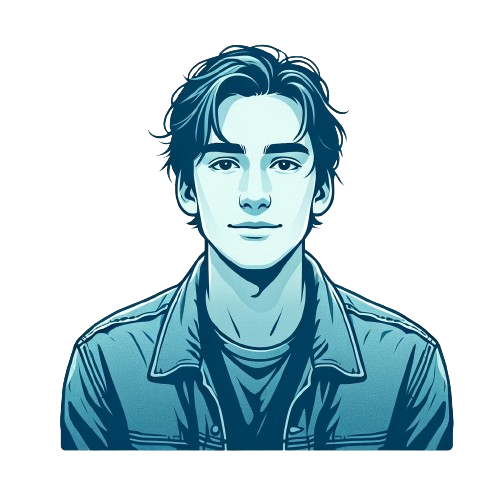
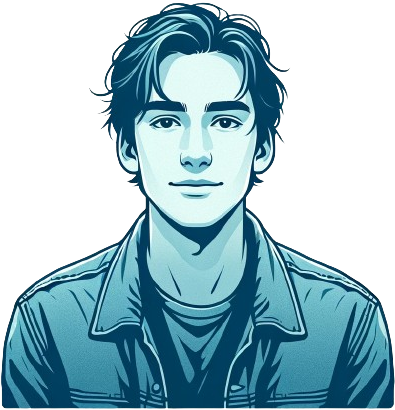
feat:añadi un button scroll indicador

diff --git a/src/components/layouts/styles/hero.css b/src/components/layouts/styles/hero.css
@@ -1,38 +1,54 @@
 .hero {
   display: grid;
-  grid-template-columns: auto 1fr; /* thumbnail y el contenedor de texto */
-  align-items: center; /* Alineación vertical */
-
-  gap: 2rem; /* Espacio entre el thumbnail y el texto */
-  padding: 100px 50px;
-
-/* 
-  background: #071d1d; */
-  height: 50vh;
+  grid-template-columns: auto auto;
+  align-items: center;
+  justify-content: center;
+  gap: 1rem;
   border-radius: 50px;
+  margin-bottom: 8rem;
+  /* height: 80vh; */
+  /* border: 1px solid red;
+   */
+  /* background: #071d1d;  */
+  /* background: #fff;  */
+
+  overflow: hidden; /* Esto evitará que el contenido se salga */
 }
-
-
-
 
 /* Asegúrate de que el Thumbnail tenga un tamaño adecuado */
-.thumbnail-container {
-  width: 350px; /* o el tamaño que prefieras */
-  height: 350px; /* mantiene la proporción de la imagen de perfil */
-  display: flex;
-  justify-content: center; /* Centra horizontalmente */
-  align-items: center; /* Centra verticalmente */
-  /*border-radius: 50%;  hace el div redondo */
-  overflow: hidden; /* oculta el exceso de imagen */
+.thumbnail-container{
+  max-width: 100%; 
+  max-height: 100%;
+  overflow: hidden;
+  width: 400px; 
+  height: 400px;
 }
-.presentacion{
+
+
+
+.parrafo{
   font-size: 1.6rem;
   font-weight: 600;
-  /* color: rgb(255, 255, 255); */
   background-image: linear-gradient(to right, #a6e9de,#71d7ca, #2aa297);
   color: transparent; 
   -webkit-background-clip: text;
   background-clip: text;
   display: inline;
-  padding-top: 10px; /* Ajuste para separar del título */
 }
+
+
+  @media screen and (max-width: 1150px) {
+    .hero {
+      display: flex;
+      flex-direction: column; /* Cambia la dirección de flex a columna */
+    }
+    .thumbnail-container{
+    }
+    .presentacion {
+      text-align: center;
+    }
+    .parrafo {
+      padding: 0 40px;
+      display: block; 
+    }
+  }

diff --git a/src/components/atomic/Buttons.tsx b/src/components/atomic/Buttons.tsx
@@ -1,4 +1,4 @@
-import React from 'react'
+import React, { useState, useEffect, useRef } from 'react';
 import './styles/buttons.css'
 export const Buttons = () => {
   return (
@@ -16,9 +16,42 @@ export const BackScroll = () => {
     });
   }
 
-  return(
-    <button className='scroll-btn' onClick={scrollToTop}>      
-      
-    </button>
+  return(   
+      <p className='smooth-back'  onClick={scrollToTop} > VOLVER</p>
   )
 }
+
+export const ScrollItem = () => {
+  const [isVisible, setIsVisible] = useState(true);
+  // Referencia al elemento de la línea
+  const lineRef = useRef(null);
+
+  // Añade el event listener cuando el componente se monta
+  const handleScroll = () => {
+    if (lineRef.current) {
+      const windowHeight = window.innerHeight;
+      const scrolled = window.scrollY;
+      const newHeight = Math.max(100 - (scrolled / windowHeight) * 100, 0);
+
+      lineRef.current.style.height = `${newHeight}px`;
+      setIsVisible(newHeight > 0);
+    }
+  };
+  const scrollToTop = () =>{
+    window.scrollTo({
+      top: 0,
+      behavior: 'smooth' // Esto asegura que el scroll sea suave
+    });
+  }
+
+  useEffect(() => {
+    window.addEventListener('scroll', handleScroll);
+    return () => window.removeEventListener('scroll', handleScroll);
+  }, []);
+  return (
+    <div className="scroll-indicator" onClick={scrollToTop} style={{ cursor: isVisible ? 'default' : 'pointer' }}>
+      <p>{isVisible ? 'SCROLL' : 'VOLVER'}</p>
+      <div className="line" ref={lineRef}></div>
+    </div>
+  );
+};

diff --git a/src/components/layouts/Hero.tsx b/src/components/layouts/Hero.tsx
@@ -1,21 +1,22 @@
 import React from 'react'
 import { Thumbnail } from '../atomic/Images';
 import { PrincipalTitles } from '../atomic/Titles';
+import { ScrollItem } from '../atomic/Buttons';
 import avatar from '../../assets/miguel_04.png';
 import './styles/hero.css'
 
 export const Hero = () => {
   return (
-  <div className='hero'>            
-      <div className="thumbnail-container">
-        <Thumbnail image={avatar} />
-      </div>
-      <div>
-          <PrincipalTitles title="MigueDev"/>
-          <p className="presentacion">
-          Soy Miguel Alejandre, Ingeniero de Software especializado en crear soluciones innovadoras a través de aplicaciones web, móviles y de inteligencia artificial, incluyendo PLN y reconocimiento de imágenes, con habilidades destacadas en gestión y dirección de equipos.
-          </p>
-      </div>
+  <div className='hero'>  
+        <div className="thumbnail-container">
+          <Thumbnail image={avatar} />
+        </div>
+        <div className='presentacion'>
+            <PrincipalTitles title="MigueDev"/>
+            <p className="parrafo">
+            Hola, soy <strong>Miguel Alejandre</strong>, Ingeniero de Software especializado en crear soluciones innovadoras a través de aplicaciones web, móviles y de inteligencia artificial, incluyendo PLN y reconocimiento de imágenes, con habilidades destacadas en gestión y dirección de equipos.
+            </p>
+        </div>
   </div>
 
   )

diff --git a/src/components/atomic/styles/buttons.css b/src/components/atomic/styles/buttons.css
@@ -1,18 +1,37 @@
-.scroll-btn {
+/*Component: BackScroll */
+  .smooth-back{
+    display: none;
+  }
+  /* Component: ScrollItem */
+
+  .scroll-indicator {
+    display: grid;
+    place-items: center;
     position: fixed;
     bottom: 20px;
-    right: 20px; 
-    padding: 10px 20px; 
-    font-size: 16px;
-    border: none; 
-    background-color: #4ab3f0;
-    color: #fff; 
-    cursor: pointer; 
-    border-radius: 5px;
-    z-index: 1000;
+    left: 0;
+    right: 0;
   }
-
-/* Agrega estilos adicionales para transiciones o efectos visuales según necesites */
-.scroll-btn:hover {
-    background-color: #ddcece;
+  
+  .scroll-indicator p {
+    margin: 0;
+    font-size: 14px;
+    letter-spacing: 2px;
+    text-transform: uppercase;
+    opacity: 0.5;
+    color: #ffffff;
+    transition: opacity 0.3s, transform 0.3s;
   }
+  
+  .scroll-indicator p:hover {
+    transform: scale(1.1); /* Un ligero efecto de zoom al pasar el mouse por encima */
+    opacity: 0.8; /* Un poco más opaco para el hover */
+  }
+  
+  .line {
+    width: 2px;
+    height: 100px;
+    background-color: #9dc4d3;
+    transition: height 0.3s ease-out;
+  }
+  

diff --git a/src/App.tsx b/src/App.tsx
@@ -4,7 +4,7 @@ import { Routes, Route } from 'react-router-dom';
 import { Header } from './components/organismic/Header'
 import { MainPage } from './components/pages/MainPage'
 import { Projects } from './components/pages/Projects'
-import { BackScroll } from './components/atomic/Buttons'
+import { BackScroll,ScrollItem } from './components/atomic/Buttons'
 
 export const App = () =>{
 
@@ -13,12 +13,13 @@ export const App = () =>{
     <div className='header-component'>        
       <Header/>
     </div>
+    
       <Routes>
         <Route path="/" element={<MainPage />} />
         <Route path="/Projects" element={<Projects />} />
       </Routes>
       <div className='btn-scroll'>
-        <BackScroll/>
+        <ScrollItem/>
       </div>
     </>
   )

diff --git a/src/components/pages/MainPage.tsx b/src/components/pages/MainPage.tsx
@@ -1,12 +1,14 @@
 import React from "react";
+import './styles/MainPage.css'
+
 import { Hero } from "../layouts/Hero";
 import { Experiencia } from "../layouts/Experiencia";
 import { SocialLinks } from "../molecular/SocialLinks";
 export const MainPage = () => {
   return (
-    <div>
+    <div className="MainPage">
       <Hero/>
-      <SocialLinks/>
+      {/* <SocialLinks/> */}
       <Experiencia/>      
     </div>
   );

diff --git a/src/components/organismic/Header.tsx b/src/components/organismic/Header.tsx
@@ -29,7 +29,7 @@ export const Header = () => {
   return (
     <div className={`navbar-list ${!navbarVisible && 'header-hidden'}`}>
       <Link to={"/"}><button className='navbar-button'>Inicio</button></Link>
-      <Link to={"/Projects"}><button className='navbar-button'>Proyects</button></Link>
+      <Link to={"/Projects"}><button className='navbar-button'>Projects</button></Link>
     </div>  
   );
 };

diff --git a/src/components/layouts/styles/experiencia.css b/src/components/layouts/styles/experiencia.css
@@ -59,12 +59,10 @@
     grid-column: 1 / -1; /* La tercera tarjeta ocupa todo el ancho */
   }
   .technologies {
-    border: 1px solid blue;
     grid-template-columns: 1fr 1fr;
   }
 
   .conferencias {
-    border: 1px solid blue;
     grid-template-columns: 1fr 1fr;
   }
 }

diff --git a/src/components/atomic/styles/images.css b/src/components/atomic/styles/images.css
@@ -1,6 +1,6 @@
 .avatar-image img {
-    width: 380px;
-    height: 360px; /* width y height iguales para un círculo perfecto */
+    width: 100%;
+    height: 100%; /* width y height iguales para un círculo perfecto */
     object-fit: cover;
     margin: 0;
 }

diff --git a/src/App.css b/src/App.css
@@ -27,10 +27,9 @@
   transform: translateY(10%); /* Desplaza el header solo la mitad hacia arriba */
 }
 
-.main-page {
-  /* padding: 2em; */
-  /* border: solid 1px white; */
-}
+
+
+
 
 .btn-scroll{
   animation: show-scroll linear both;

diff --git a/src/components/pages/styles/MainPage.css b/src/components/pages/styles/MainPage.css
@@ -1,0 +1,3 @@
+.MainPage{
+    padding-top: 5rem;
+}
